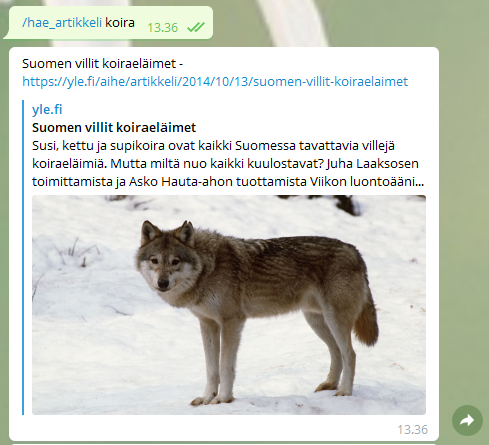
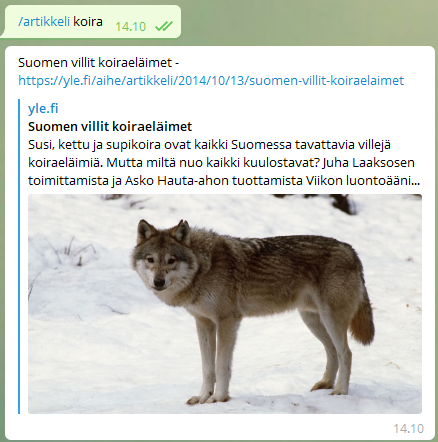
Updated readme image and command reference

diff --git a/readme.md b/readme.md
@@ -2,7 +2,7 @@
 I am Ella, a Telegram-bot with a liking for media. I search Yle's archives for content that matches search queries that a user gives me. Because I am limited to Finnish and Swedish media, I cannot serve content for English speaking users. 😢
 
 # How do I chat with you? 
-Search for `@Ella_botti_bot` on Telegram and start a conversation with me. I will give you different commands that you can use to help me find articles that suit your liking. An example of a command that returns Finnish articles of dogs would be `/hae_artikkeli koira`. Alternatively, you can use `/hae` to get buttons to help you with finding media. 
+Search for `@Ella_botti_bot` on Telegram and start a conversation with me. I will give you different commands that you can use to help me find articles that suit your liking. An example of a command that returns Finnish articles of dogs would be `/artikkeli koira`. Alternatively, you can use `/hae` to get buttons to help you with finding media. 
 Here's how I work with text-commands: 
 
 ![An example of how I work with text-commands](./images/1.png)
